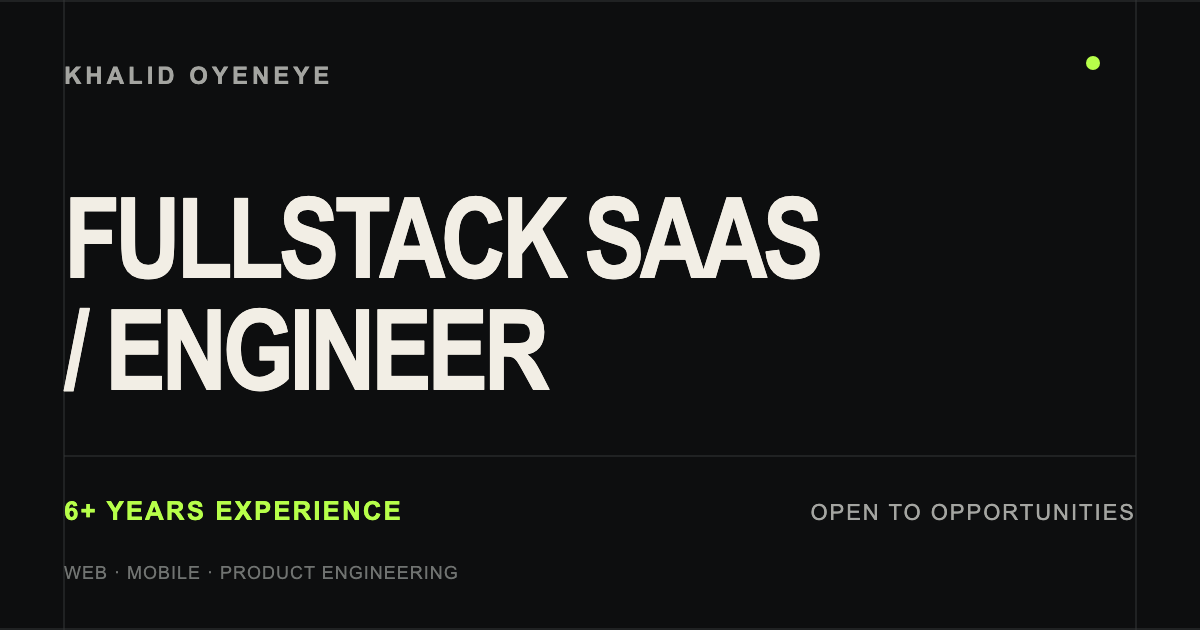
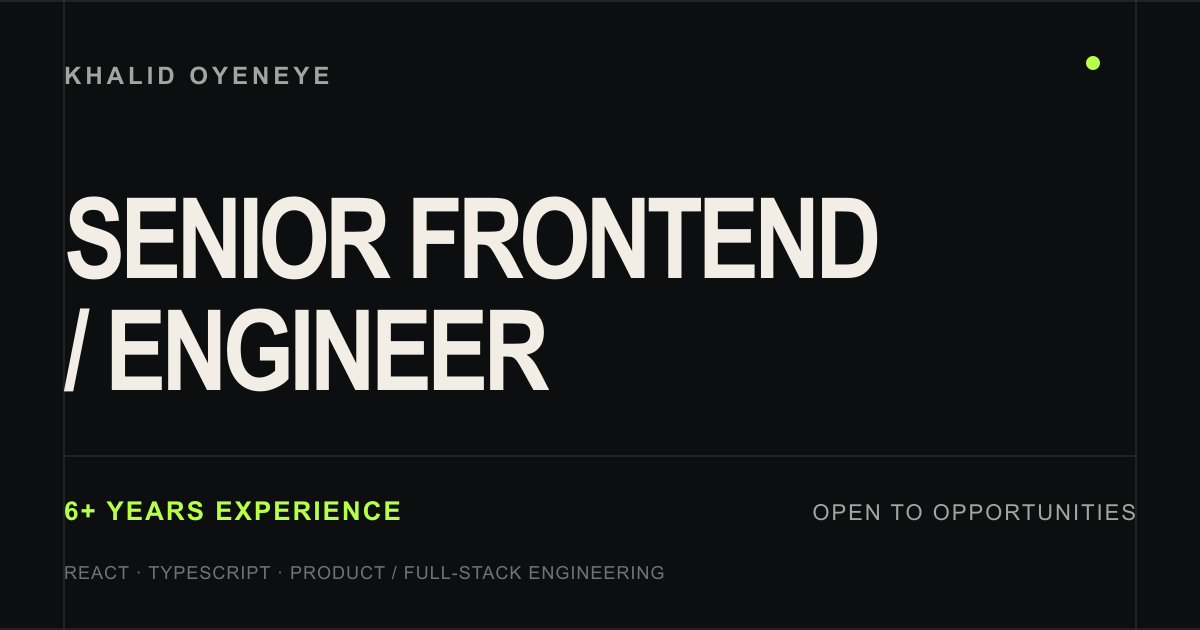
feat: update portfolio to reflect current role as Senior Frontend Engineer and enhance descriptions

diff --git a/src/data/portfolio.ts b/src/data/portfolio.ts
@@ -102,11 +102,11 @@ const socialPreview = (
 export const portfolio: PortfolioContent = {
   profile: {
     name: "Khalid Oyeneye",
-    role: "Fullstack SaaS Engineer",
+    role: "Senior Frontend Engineer",
     location: "Lagos, Nigeria",
     email: "khalidoyeneye@gmail.com",
     summary:
-      "I build production SaaS products across web and mobile, from product architecture and interfaces to APIs, data, testing, and delivery.",
+      "I build production SaaS products across web and mobile, from frontend architecture and interfaces to APIs, data, testing, and delivery.",
     availability: "Open to opportunities.",
     resumeUrl: "/khalid-oyeneye-resume.pdf"
   },
@@ -134,8 +134,8 @@ export const portfolio: PortfolioContent = {
   ],
   capabilities: [
     {
-      title: "SaaS product engineering",
-      description: "Product architecture and fullstack delivery from idea to production."
+      title: "Product / full-stack engineering",
+      description: "Architecture and end-to-end delivery from idea to production."
     },
     {
       title: "Frontend and mobile",

diff --git a/src/test/routes.test.tsx b/src/test/routes.test.tsx
@@ -25,7 +25,7 @@ describe("application routes", () => {
   it("renders the homepage at the canonical root", () => {
     renderRoute("/");
     expect(
-      screen.getByRole("heading", { level: 1, name: "Software Engineer" })
+      screen.getByRole("heading", { level: 1, name: "Senior Frontend Engineer" })
     ).toBeInTheDocument();
   });
 
@@ -193,7 +193,7 @@ describe("route metadata and announcement components", () => {
         <RouteHead />
       </MemoryRouter>
     );
-    await waitFor(() => expect(document.title).toContain("Fullstack SaaS Web and Mobile Engineer"));
+    await waitFor(() => expect(document.title).toContain("Senior Frontend Engineer"));
     const personData = JSON.parse(
       document.head.querySelector<HTMLScriptElement>("#portfolio-structured-data")?.text ?? "{}"
     ) as { "@graph"?: Array<Record<string, unknown>> };

diff --git a/src/helpers/route-metadata.ts b/src/helpers/route-metadata.ts
@@ -8,12 +8,12 @@ export const PUBLISHED_PROJECT_PATHS = publishedProjects.map(
 );
 
 const homeMetadata: RouteMetadata = {
-  title: "Khalid Oyeneye | Fullstack SaaS Web and Mobile Engineer",
+  title: "Khalid Oyeneye | Senior Frontend Engineer",
   description:
-    "Fullstack SaaS engineer building production web platforms and mobile applications for teams in Nigeria and worldwide.",
+    "Senior Frontend Engineer building production SaaS products across web and mobile, from frontend architecture and interfaces to APIs, data, testing, and delivery.",
   canonicalPath: "/",
   image: "/images/og/khalid-oyeneye-portfolio.png",
-  imageAlt: "Khalid Oyeneye, Fullstack SaaS Engineer portfolio",
+  imageAlt: "Khalid Oyeneye, Senior Frontend Engineer portfolio",
   type: "website",
   robots: "index, follow, max-image-preview:large"
 };

diff --git a/src/test/content.test.ts b/src/test/content.test.ts
@@ -18,7 +18,7 @@ describe("portfolio content", () => {
   it("keeps identity, availability, public channels, and verified metrics centralized", () => {
     expect(portfolio.profile).toMatchObject({
       name: "Khalid Oyeneye",
-      role: "Fullstack SaaS Engineer",
+      role: "Senior Frontend Engineer",
       location: "Lagos, Nigeria",
       availability: "Open to opportunities.",
       resumeUrl: "/khalid-oyeneye-resume.pdf"
@@ -187,7 +187,7 @@ describe("route metadata and shared helpers", () => {
       "/projects/mfbi"
     ]);
     expect(getRouteMetadata("/")).toMatchObject({
-      title: "Khalid Oyeneye | Fullstack SaaS Web and Mobile Engineer",
+      title: "Khalid Oyeneye | Senior Frontend Engineer",
       canonicalPath: "/",
       type: "website"
     });

diff --git a/index.html b/index.html
@@ -19,10 +19,10 @@
     <link rel="canonical" href="https://khalidoyeneye.dev/" />
     <meta
       name="description"
-      content="Fullstack SaaS engineer building production web platforms and mobile applications for teams in Nigeria and worldwide."
+      content="Senior Frontend Engineer building production SaaS products across web and mobile, from frontend architecture and interfaces to APIs, data, testing, and delivery."
     />
     <meta name="author" content="Khalid Oyeneye" />
-    <title>Khalid Oyeneye | Fullstack SaaS Web and Mobile Engineer</title>
+    <title>Khalid Oyeneye | Senior Frontend Engineer</title>
     <script type="module" src="./legacy-host-redirect.js"></script>
     <!--app-head-->
   </head>

diff --git a/src/modules/home/components/hero-section.tsx b/src/modules/home/components/hero-section.tsx
@@ -47,7 +47,7 @@ export function HeroSection() {
         >
           <span className="col-span-10 block overflow-clip max-md:col-span-full">
             <span className="block whitespace-nowrap max-md:whitespace-normal" data-hero-reveal>
-              Software
+              Senior Frontend
             </span>
           </span>
           <span className="col-span-10 col-start-3 block overflow-clip max-md:col-span-full max-md:col-start-1">

diff --git a/src/test/home.test.tsx b/src/test/home.test.tsx
@@ -21,7 +21,7 @@ describe("homepage", () => {
     renderHome();
 
     expect(
-      screen.getByRole("heading", { level: 1, name: "Software Engineer" })
+      screen.getByRole("heading", { level: 1, name: "Senior Frontend Engineer" })
     ).toBeInTheDocument();
     expect(document.querySelector('[data-ui="availability"]')).not.toBeInTheDocument();
     const conversationLink = screen.getByRole("link", { name: /Start a conversation/i });

diff --git a/docs/content-model.md b/docs/content-model.md
@@ -27,7 +27,7 @@ Use the narrowest available source and preserve its limitations.
 
 The current résumé-backed facts are:
 
-- Khalid Oyeneye, Fullstack SaaS Engineer, Lagos, Nigeria;
+- Khalid Oyeneye, Senior Frontend Engineer, Lagos, Nigeria;
 - `khalidoyeneye@gmail.com`;
 - 1840 & Company: Senior Frontend Engineer, June 2024 to present, Kansas/United States remote;
 - Atop Web Technologies: Frontend Engineer, April 2023 to January 2024, Stockholm/Sweden remote;
@@ -52,7 +52,7 @@ to make an otherwise unsupported figure appear defensible.
 | Field          | Type     | Rule                                                                         |
 | -------------- | -------- | ---------------------------------------------------------------------------- |
 | `name`         | `string` | Verified public name                                                         |
-| `role`         | `string` | Current positioning; presently `Fullstack SaaS Engineer`                     |
+| `role`         | `string` | Primary positioning; presently `Senior Frontend Engineer`                    |
 | `location`     | `string` | City and country only                                                        |
 | `email`        | `string` | Valid verified address; rendered through `mailto:`                           |
 | `summary`      | `string` | Concise positioning, not an unsupported outcome claim                        |
